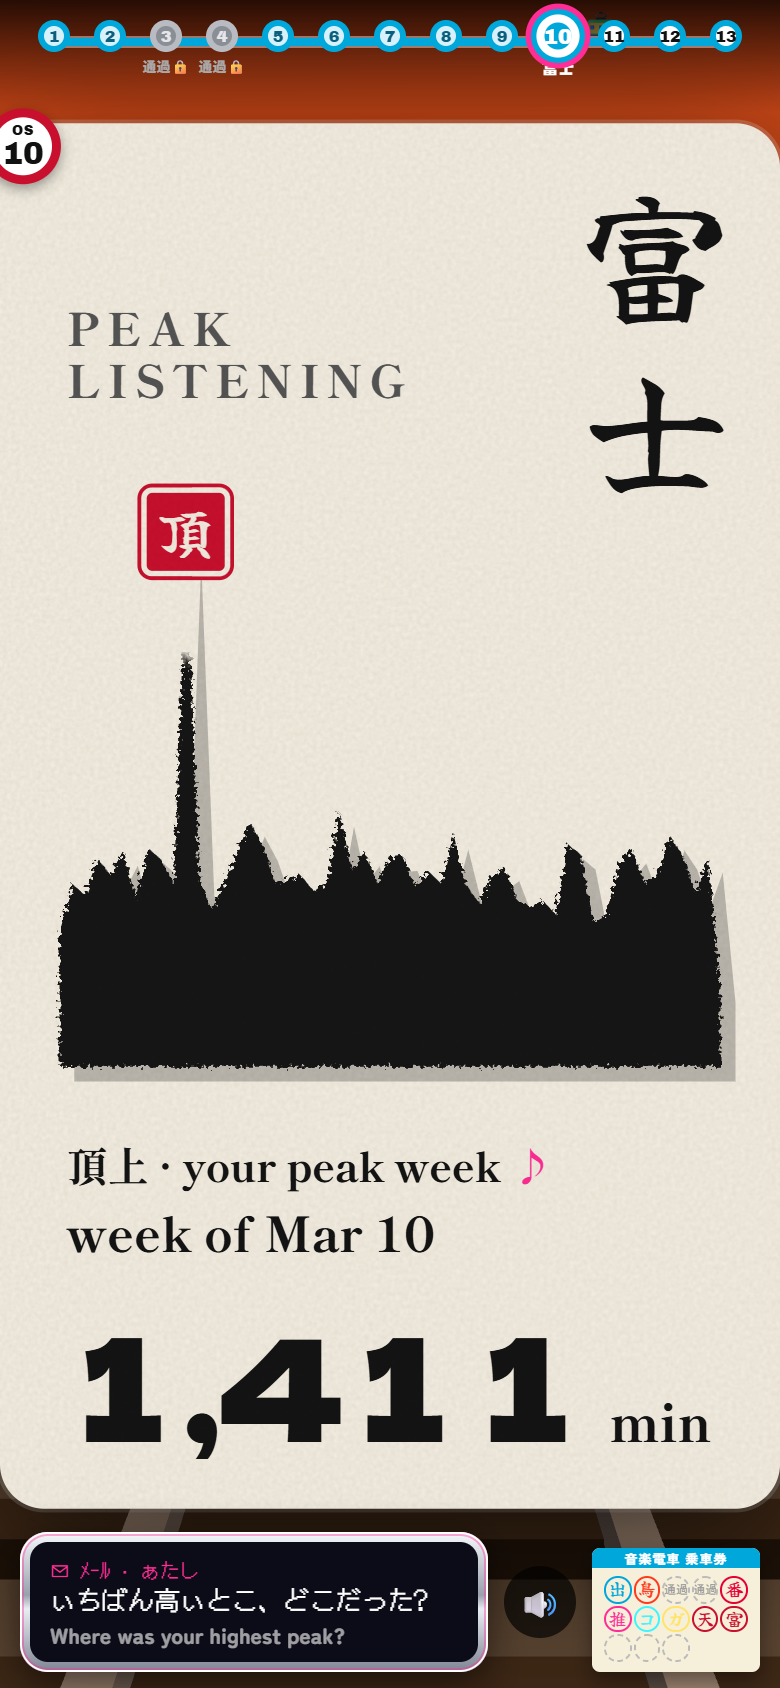
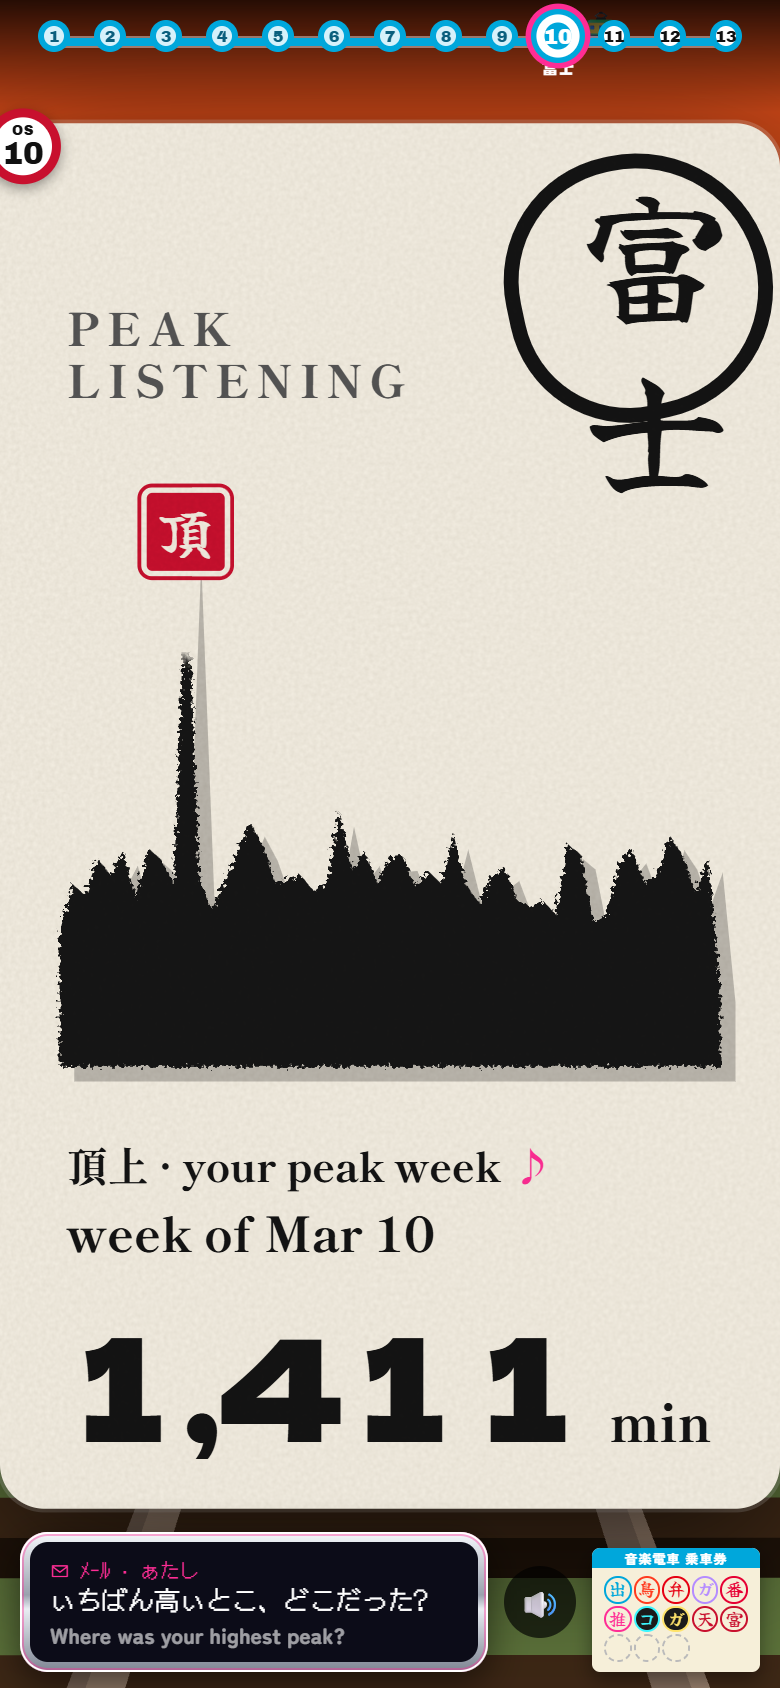
feat(world-o): weather; fuji ensō arrival

diff --git a/src/journey/beats.ts b/src/journey/beats.ts
@@ -10,6 +10,12 @@ export function prefersReducedMotion(): boolean {
 
 const countText = (el: HTMLElement, n: number) => `${fmt(n)}${el.dataset.suffix ?? ''}`;
 
+/** data-path="x0,y0,x1,y1,…" as [x, y] pairs. */
+const path = (el: HTMLElement) => {
+  const n = (el.dataset.path ?? '').split(',').map(Number);
+  return Array.from({ length: n.length / 2 }, (_, i) => [n[2 * i], n[2 * i + 1]] as const);
+};
+
 /** Add one element's entrance at `at`. Every fx ends with the element visible, except `flash` (an overlay that fades away). */
 function enter(tl: gsap.core.Timeline, el: HTMLElement, at: number) {
   const fx = (el.dataset.fx ?? 'rise').split(' ');
@@ -33,8 +39,19 @@ function enter(tl: gsap.core.Timeline, el: HTMLElement, at: number) {
     tl.to(o, { n: target, duration: 1.2, ease: 'power2.out', onUpdate: () => void (el.textContent = countText(el, o.n)) }, at);
     return;
   }
+  if (fx.includes('orbit')) {
+    // orbit: data-path holds x,y points; the element walks to point k as the k-th following beat group arrives.
+    const p = path(el);
+    tl.set(el, { x: p[0][0], y: p[0][1] }, at);
+    p.slice(1).forEach(([x, y], k) => tl.to(el, { x, y, duration: 0.4, ease: 'power2.inOut' }, at + (k + 2) * GAP));
+  }
   if (fx.includes('grow')) grow();
-  else if (fx.includes('stamp')) tl.fromTo(el, { opacity: 0, scale: 2.2, rotation: -12 }, { opacity: 1, scale: 1, rotation: 0, duration: 0.35, ease: 'back.out(2)' }, at);
+  else if (fx.includes('steps')) tl.fromTo(el, { scale: 0.2, opacity: 0 }, { scale: 1, opacity: 1, duration: 0.6, ease: 'steps(6)' }, at);
+  else if (fx.includes('drain')) {
+    // drain: a solid red sun empties to an ink ring (weather's sun arriving at Fuji).
+    tl.set(el, { opacity: 1 }, at);
+    tl.fromTo(el, { backgroundColor: '#c8102e', borderColor: '#c8102e' }, { backgroundColor: 'rgba(0,0,0,0)', borderColor: '#141414', duration: 0.8, ease: 'power1.in' }, at);
+  } else if (fx.includes('stamp')) tl.fromTo(el, { opacity: 0, scale: 2.2, rotation: -12 }, { opacity: 1, scale: 1, rotation: 0, duration: 0.35, ease: 'back.out(2)' }, at);
   else if (fx.includes('zoom')) tl.fromTo(el, { opacity: 0, x: 200 }, { opacity: 1, x: 0, duration: 0.7, ease: 'power4.out' }, at);
   else if (fx.includes('drop')) tl.fromTo(el, { opacity: 0, y: -60 }, { opacity: 1, y: 0, duration: 0.5, ease: 'bounce.out' }, at);
   else tl.fromTo(el, { opacity: 0, y: 24 }, { opacity: 1, y: 0, duration: 0.5, ease: 'power2.out' }, at);
@@ -63,6 +80,8 @@ export function playBeats(root: HTMLElement, opts: { reduced?: boolean } = {}): 
         if (el.dataset.fx?.includes('flash')) tl.set(el, { opacity: 0 }, 0);
         else tl.set([el, ...(el.dataset.fx?.includes('type') ? el.children : [])], { opacity: 1 }, 0);
         if (el.dataset.fx?.includes('count')) el.textContent = countText(el, Number(el.dataset.count));
+        if (el.dataset.fx?.includes('orbit')) tl.set(el, { x: path(el).at(-1)![0], y: path(el).at(-1)![1] }, 0);
+        if (el.dataset.fx?.includes('drain')) tl.set(el, { backgroundColor: 'rgba(0,0,0,0)', borderColor: '#141414' }, 0);
       }
     }
     return tl;

diff --git a/src/slides/weather.ts b/src/slides/weather.ts
@@ -1,16 +1,23 @@
 import type { Slide } from '../story/player';
 import type { Season } from '../types';
-import { esc, slide } from './fmt';
+import { cnt, esc, slide } from './fmt';
+import './worlds/o.css';
 
-const CELLS: [Season, string, string][] = [['spring', '春', '🌸'], ['summer', '夏', '☀'], ['autumn', '秋', '🍁'], ['winter', '冬', '❄']];
+const CELLS: [Season, string, string][] = [['spring', '春', 'SPRING'], ['summer', '夏', 'SUMMER'], ['autumn', '秋', 'AUTUMN'], ['winter', '冬', 'WINTER']];
+// The sun's position (design px) as each season arrives: low left → high → high right → low right.
+const PATH = [6, 112, 48, 36, 88, 52, 94, 118];
 
+// World O (1960s modernism): one red sun crossing a cream sky, a season per beat, its #1 artist beneath.
 export const weather: Slide = ({ stats }) => {
-  const cells = CELLS.map(([k, jp, icon]) => {
-    const name = stats!.seasons![k].topArtist?.name;
-    return `<div><span class="jp">${jp}</span><b>${icon}</b><span class="nm">${name ? esc(name) : '—'}</span></div>`;
+  const seasons = stats!.seasons!;
+  const cells = CELLS.map(([k, jp, en], i) => {
+    const name = seasons[k].topArtist?.name;
+    return `<div class="ss" data-beat="${3 + i}"><span class="lb">${en} · ${jp}</span><span class="nm fit">${name ? esc(name) : '—'}</span></div>`;
   }).join('');
-  return slide('wx', `<span class="bar" data-beat="1">♪ 音楽天気予報 · ${stats!.year}</span>
-    <div class="map" data-beat="2"><div class="isl" style="width:40px;height:30px;top:6px;right:26px"></div><div class="isl" style="width:70px;height:36px;top:40px;right:52px;transform:rotate(-30deg)"></div><div class="isl" style="width:40px;height:26px;top:82px;left:40px"></div></div>
-    <div class="fc" data-beat="3" data-fx="type">${cells}</div>
-    <div class="ft" data-beat="4">your #1 artist, season by season</div>`);
+  const [loudKey, loud] = CELLS.map(([k, , en]) => [en, seasons[k].value] as const).reduce((a, b) => (b[1] > a[1] ? b : a));
+  const unit = stats!.minutes !== undefined ? ' min' : ' plays';
+  return slide('wx', `<div class="sun" data-beat="2" data-fx="steps orbit" data-path="${PATH.join(',')}"></div>
+    <div class="low"><div class="grid">${cells}</div>
+    <div class="loud" data-beat="7"><small>your loudest season · ${loudKey}</small><b class="hero">${cnt(7, loud, unit)}</b></div></div>
+    <div class="ft" data-beat="1">音楽天気予報 · ${stats!.year}</div>`);
 };

diff --git a/tests/journey/beats.test.ts b/tests/journey/beats.test.ts
@@ -1,4 +1,5 @@
 import { afterEach, expect, test, vi } from 'vitest';
+import { gsap } from 'gsap';
 import { playBeats, prefersReducedMotion } from '../../src/journey/beats';
 
 const html = (s: string) => {
@@ -81,4 +82,32 @@ test('grow is instant under reduced motion', () => {
   const el = html('<b data-beat="1" data-fx="grow">x</b>');
   playBeats(el, { reduced: true }).progress(1);
   expect(el.querySelector('b')!.style.opacity).toBe('1');
+});
+
+test('steps snaps an element up in pixel steps; orbit walks it through its path, one point per following beat', () => {
+  const el = html('<b data-beat="2" data-fx="steps orbit" data-path="0,100,40,0,80,20,90,100">o</b><i data-beat="3">a</i><i data-beat="4">b</i><i data-beat="5">c</i><i data-beat="6">d</i>');
+  const tl = playBeats(el);
+  const sun = el.querySelector('b')!;
+  tl.progress(0.001);
+  expect(gsap.getProperty(sun, 'x')).toBe(0);
+  expect(gsap.getProperty(sun, 'y')).toBe(100);
+  tl.progress(1);
+  expect(gsap.getProperty(sun, 'x')).toBe(90);
+  expect(gsap.getProperty(sun, 'y')).toBe(100);
+  expect(sun.style.opacity).toBe('1');
+});
+
+test('orbit under reduced motion lands on the last point at once', () => {
+  const el = html('<b data-beat="1" data-fx="steps orbit" data-path="0,0,10,10,20,20,30,40">o</b>');
+  playBeats(el, { reduced: true }).progress(1);
+  expect(gsap.getProperty(el.querySelector('b')!, 'x')).toBe(30);
+  expect(gsap.getProperty(el.querySelector('b')!, 'y')).toBe(40);
+});
+
+test('drain turns a solid red sun into an ink ring', () => {
+  const el = html('<b data-beat="1" data-fx="drain">o</b>');
+  playBeats(el).progress(1);
+  const b = el.querySelector('b')!;
+  expect(b.style.backgroundColor).toBe('rgba(0, 0, 0, 0)');
+  expect(b.style.borderColor).toBe('rgb(20, 20, 20)');
 });

diff --git a/tests/slides/worlds.test.ts b/tests/slides/worlds.test.ts
@@ -9,6 +9,7 @@ import { bento } from '../../src/slides/bento';
 import { ganguro } from '../../src/slides/ganguro';
 import { idol } from '../../src/slides/idol';
 import { konbini } from '../../src/slides/konbini';
+import { weather } from '../../src/slides/weather';
 import { ctx, STATS } from './fixture';
 
 const css = (w: string) => readFileSync(`src/slides/worlds/${w}.css`, 'utf8');
@@ -157,4 +158,22 @@ test('B konbini: a riso receipt over the duotone night; the total is the hero; t
   expect(el.classList.contains('dark')).toBe(true);
   expect(el.querySelector('.credit')).not.toBeNull();
   expect(el.querySelector('.r .nm')!.classList.contains('clip')).toBe(true);
+});
+
+test('O weather: one red sun steps through the four seasons; the loudest season is the hero', () => {
+  const el = weather(ctx());
+  for (const n of ['Aoi Kaze', 'Hoshino Rei', 'Sora Takeda', 'Yuki Tsuki']) expect(el.textContent).toContain(n);
+  const sun = el.querySelector<HTMLElement>('.sun')!;
+  expect(sun.dataset.fx).toBe('steps orbit');
+  expect(sun.dataset.path!.split(',')).toHaveLength(8);
+  expect(el.querySelector('.hero')!.textContent).toContain('8,000');
+  expect(el.textContent).toContain('SPRING');
+});
+
+test('I fuji: its arrival starts as the red sun draining into an ink ensō', () => {
+  const el = fuji(ctx());
+  const enso = el.querySelector<HTMLElement>('.enso')!;
+  const lowest = Math.min(...[...el.querySelectorAll<HTMLElement>('[data-beat]')].map((b) => Number(b.dataset.beat)));
+  expect(Number(enso.dataset.beat)).toBe(lowest);
+  expect(enso.dataset.fx).toBe('drain');
 });

diff --git a/src/slides/worlds/o.css b/src/slides/worlds/o.css
@@ -1,0 +1,13 @@
+/* World O: 1960s modernism (art spec §5, mockup O). Cream field, one red sun, Bebas Neue labels. */
+.wx { background: #f4efe6; color: #111; font-family: var(--face-text); }
+.wx .sun { position: absolute; left: 0; top: 0; width: 100px; height: 100px; border-radius: 50%; background: #c8102e; }
+.wx .low { position: absolute; left: 14px; right: 14px; bottom: 30px; display: flex; flex-direction: column; gap: 10px; }
+.wx .grid { display: grid; grid-template-columns: 1fr 1fr; gap: 6px 10px; }
+.wx .ss { min-width: 0; border-top: 2px solid #111; padding-top: 3px; }
+.wx .lb { display: block; font: 10px/1 'Bebas Neue', var(--face-text); letter-spacing: 3px; color: #b08a2e; }
+.wx .nm { display: block; font: 17px/1 'Bebas Neue', var(--face-text); letter-spacing: .5px; margin-top: 2px; }
+.wx .fit { overflow-wrap: anywhere; display: -webkit-box; -webkit-box-orient: vertical; -webkit-line-clamp: 2; overflow: hidden; }
+
+.wx .loud small { display: block; font: 10px/1 'Bebas Neue', var(--face-text); letter-spacing: 3px; color: #555; }
+.wx .hero { display: block; font: 26px/1.1 var(--face-num); font-weight: 400; color: #c8102e; font-variant-numeric: tabular-nums; white-space: nowrap; }
+.wx .ft { position: absolute; left: 0; right: 0; bottom: 12px; text-align: center; font: 900 9px var(--face-text); letter-spacing: 5px; color: #ff2d95; }

diff --git a/src/slides/slides.css b/src/slides/slides.css
@@ -20,16 +20,6 @@
 /* 8 gacha (round 1) */
 
 /* 9 TV weather / sakura forecast (round 1) */
-.wx { background: linear-gradient(#0b62c4, #0a3f87); color: #fff; font-family: 'Zen Maru Gothic', sans-serif; }
-.wx .bar { background: #fff; color: #0a3f87; font-weight: 900; font-size: 12px; padding: 4px 8px; border-radius: 4px; align-self: flex-start; border-left: 6px solid #ff2d95; }
-.wx .map { margin: 12px 0; height: 120px; position: relative; }
-.wx .isl { position: absolute; background: #5fd16a; border-radius: 40% 60% 50% 40%; border: 2px solid #fff; }
-.wx .fc { display: grid; grid-template-columns: 1fr 1fr; gap: 6px; font-size: 10px; text-align: center; }
-.wx .fc div { background: #ffffff22; border-radius: 6px; padding: 5px 3px; display: flex; flex-direction: column; align-items: center; min-width: 0; }
-.wx .fc .jp { font-weight: 900; }
-.wx .fc b { font-size: 16px; }
-.wx .fc .nm { font-weight: 900; max-width: 100%; overflow: hidden; white-space: nowrap; text-overflow: ellipsis; }
-.wx .ft { margin-top: auto; font-size: 10px; text-align: center; opacity: 0.8; }
 
 /* 10 Mt. Fuji (round 3) — ridge is the weekly graph */
 

diff --git a/src/slides/fuji.ts b/src/slides/fuji.ts
@@ -21,7 +21,8 @@ export const fuji: Slide = ({ stats }) => {
   const poly = `0,${H} ${pts.join(' ')} ${W},${H}`;
   // Two slides can be on stage during a transition: SVG ids must not clash.
   const id = ++uid;
-  return slide('fuji', `<div class="v" data-beat="1">富士</div>
+  // Arrival (art spec §6, O → I): the weather's red sun drains into an ink ensō behind the title.
+  return slide('fuji', `<i class="enso" data-beat="1" data-fx="drain"></i><div class="v" data-beat="1">富士</div>
     <div class="t" data-beat="1">peak listening</div>
     <svg viewBox="0 0 ${W} ${H}" preserveAspectRatio="none" aria-hidden="true" data-beat="2" style="top:${TOP}px">
       <defs>

diff --git a/src/slides/worlds/i.css b/src/slides/worlds/i.css
@@ -11,3 +11,4 @@
 .fuji .num { position: absolute; left: 16px; right: 12px; bottom: 14px; display: flex; flex-wrap: wrap; align-items: baseline; column-gap: 6px; white-space: nowrap; }
 .fuji .hero { font: 38px/1 var(--face-num); font-weight: 400; font-variant-numeric: tabular-nums; letter-spacing: -1px; }
 .fuji .u { font: 800 14px 'Shippori Mincho', serif; }
+.fuji .enso { position: absolute; right: 2px; top: 8px; width: 72px; height: 72px; box-sizing: border-box; border: 4px solid #141414; border-radius: 48% 52% 50% 46%; background: transparent; transform: rotate(-12deg); }
